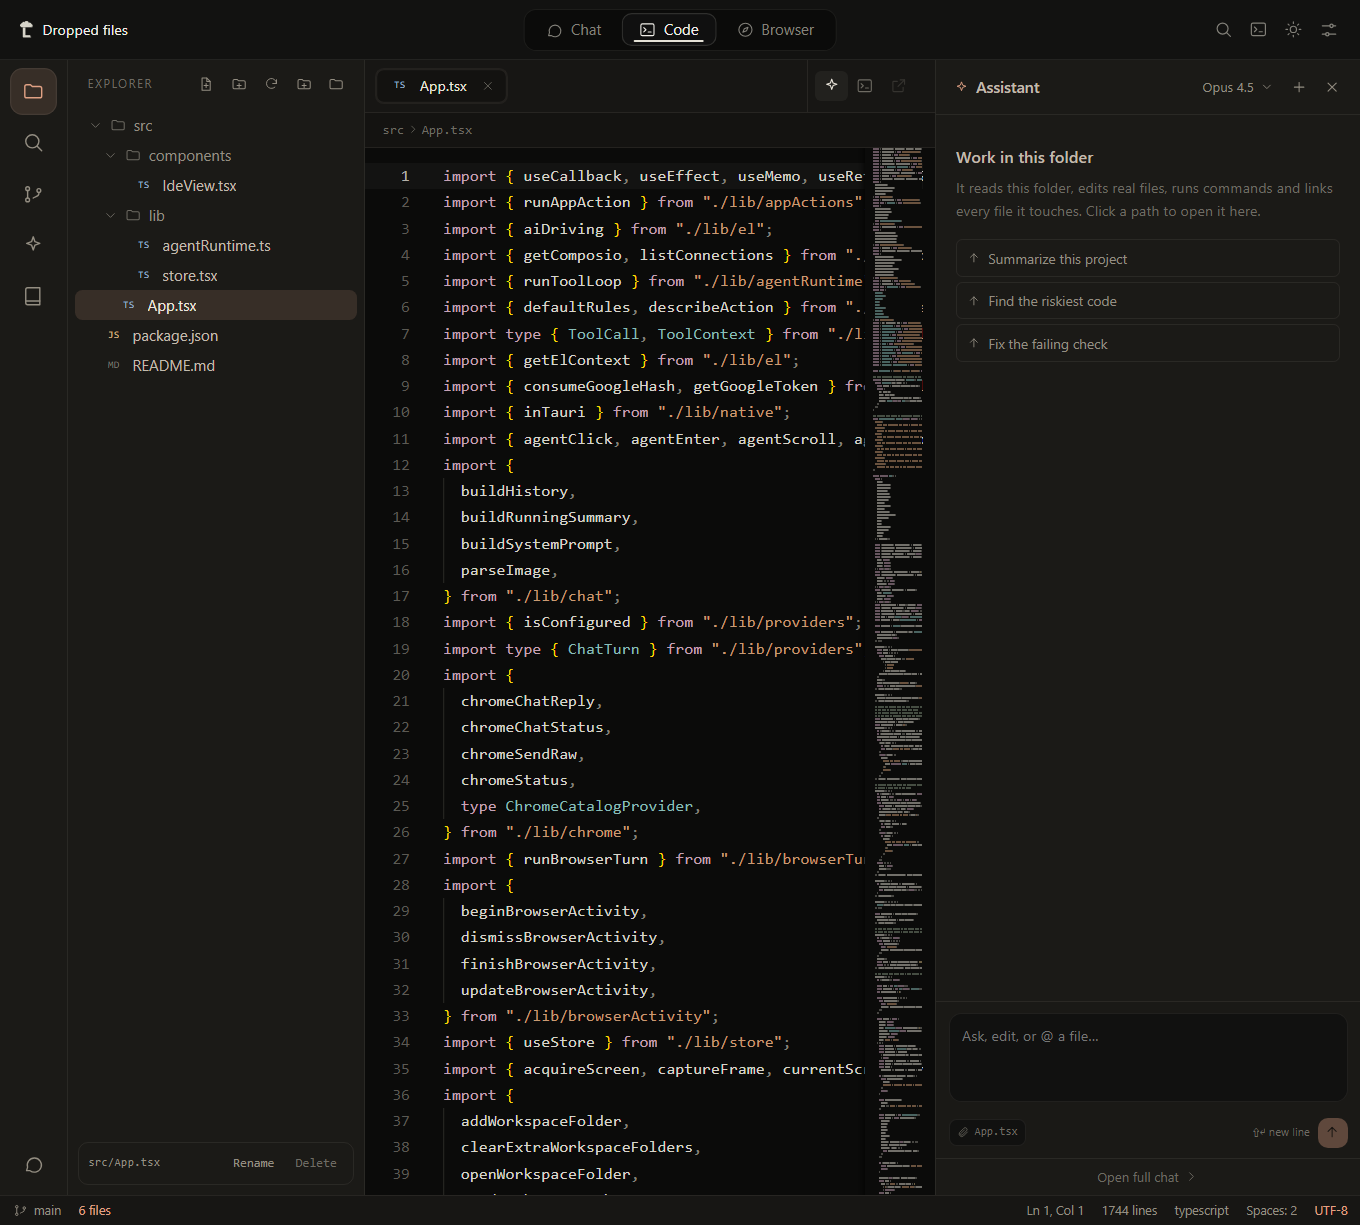
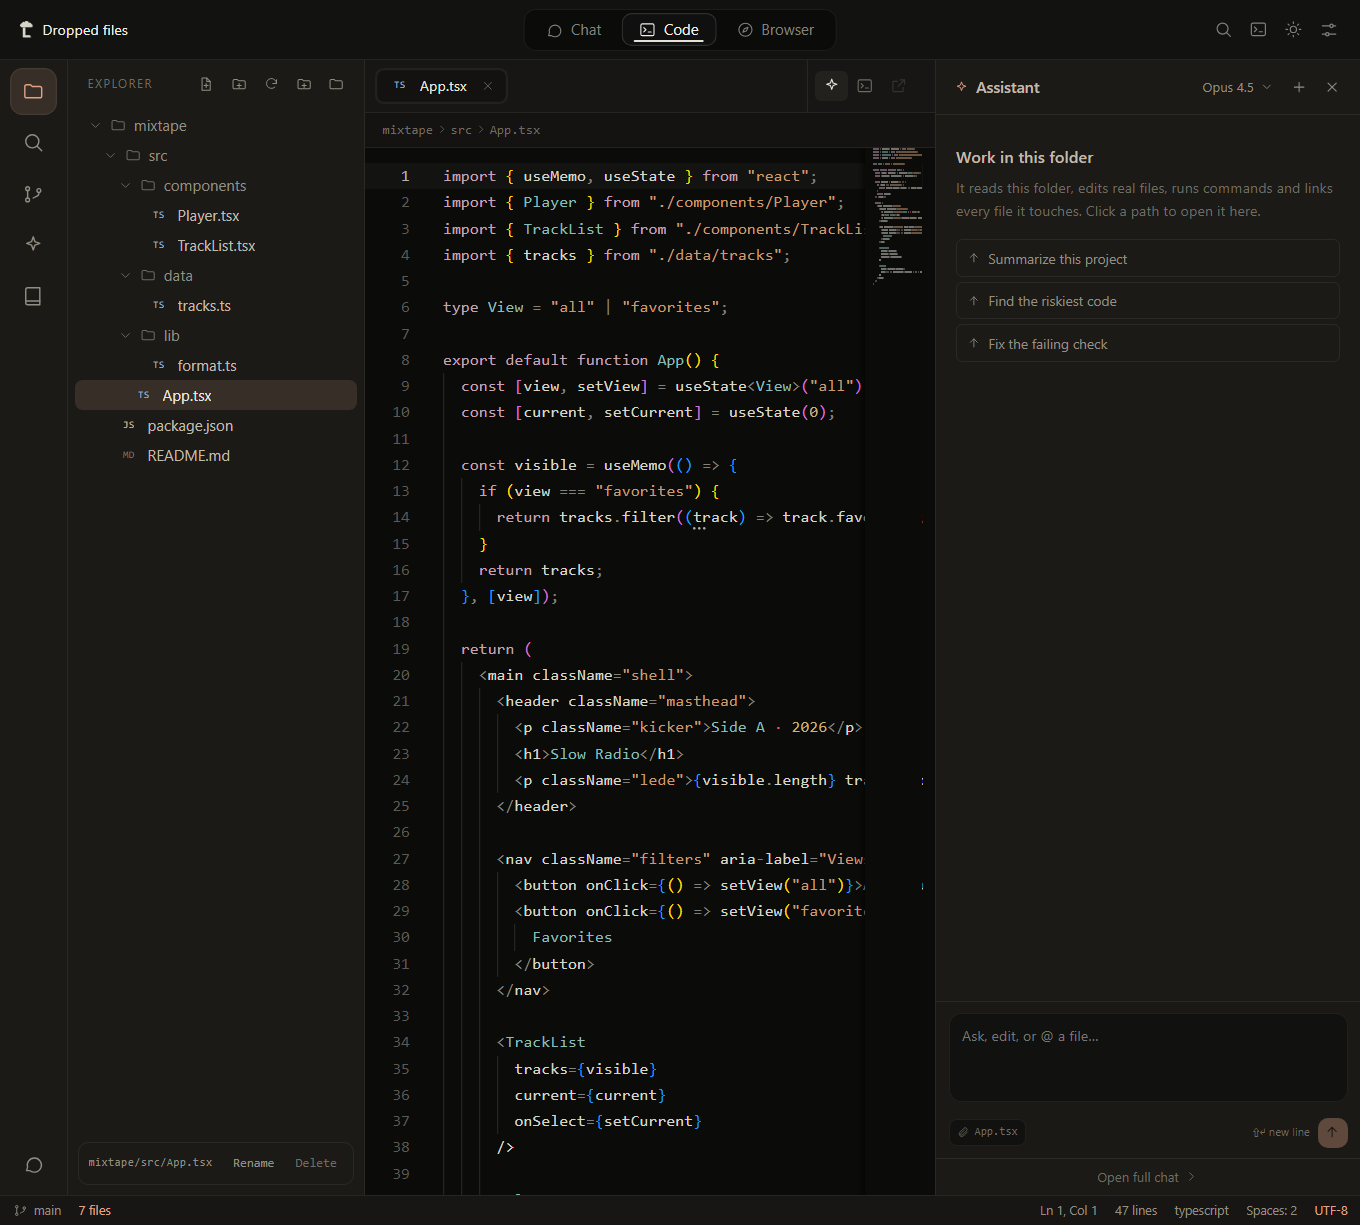
Give Monaco files real URIs and keep source out of public screenshots.
TSX and JSX models now carry their file extension, so the TypeScript worker parses JSX and generics correctly instead of flagging type aliases as unused. The README and website use a sample workspace for the Code capture so no repository source is published.

🤖 Generated with Codebuff

diff --git a/src/components/MonacoEditor.tsx b/src/components/MonacoEditor.tsx
@@ -160,9 +160,15 @@ export function MonacoEditor({
 
   useEffect(() => {
     if (!host.current) return undefined;
-    const editor = monaco.editor.create(host.current, {
+    // Give the model a real file URI so the TypeScript worker sees a `.tsx` or
+    // `.jsx` extension and parses JSX and generic type arguments correctly.
+    const model = monaco.editor.createModel(
       value,
-      language: monacoLanguage(path),
+      monacoLanguage(path),
+      monaco.Uri.file(`/${path}`),
+    );
+    const editor = monaco.editor.create(host.current, {
+      model,
       theme: theme === "dark" ? "lantas-dark" : "lantas-light",
       automaticLayout: true,
       fontFamily: prefs.fontFamily,
@@ -187,8 +193,7 @@ export function MonacoEditor({
       fixedOverflowWidgets: true,
     });
     editorRef.current = editor;
-    const first = editor.getModel();
-    if (first) models.current.set(path, first);
+    models.current.set(path, model);
 
     const change = editor.onDidChangeModelContent(() => {
       const model = editor.getModel();
@@ -221,7 +226,11 @@ export function MonacoEditor({
     if (!editor) return;
     let model = models.current.get(path);
     if (!model) {
-      model = monaco.editor.createModel(value, monacoLanguage(path));
+      model = monaco.editor.createModel(
+        value,
+        monacoLanguage(path),
+        monaco.Uri.file(`/${path}`),
+      );
       models.current.set(path, model);
     }
     if (editor.getModel() !== model) {

diff --git a/Website/site/index.html b/Website/site/index.html
@@ -325,7 +325,7 @@
     <div class="shots-grid" data-reveal>
       <figure class="shot shot-wide">
         <img src="assets/img/app-code.webp" alt="Lantas Code: the file explorer, a Monaco editor with App.tsx open, tabs and the assistant panel beside them" width="1100" height="991" loading="lazy">
-        <figcaption><b>Code</b><span>A real workspace: Monaco, the file tree, tabs and the assistant, inside the app's own title bar.</span></figcaption>
+        <figcaption><b>Code</b><span>A sample workspace in the real Code surface: Monaco, the file tree, tabs and the assistant, inside the app's own title bar.</span></figcaption>
       </figure>
       <figure class="shot">
         <img src="assets/img/app-home.webp" alt="Lantas Home: the composer, agent modes and new-thread suggestions" width="720" height="649" loading="lazy">

diff --git a/public-repo/index.html b/public-repo/index.html
@@ -325,7 +325,7 @@
     <div class="shots-grid" data-reveal>
       <figure class="shot shot-wide">
         <img src="assets/img/app-code.webp" alt="Lantas Code: the file explorer, a Monaco editor with App.tsx open, tabs and the assistant panel beside them" width="1100" height="991" loading="lazy">
-        <figcaption><b>Code</b><span>A real workspace: Monaco, the file tree, tabs and the assistant, inside the app's own title bar.</span></figcaption>
+        <figcaption><b>Code</b><span>A sample workspace in the real Code surface: Monaco, the file tree, tabs and the assistant, inside the app's own title bar.</span></figcaption>
       </figure>
       <figure class="shot">
         <img src="assets/img/app-home.webp" alt="Lantas Home: the composer, agent modes and new-thread suggestions" width="720" height="649" loading="lazy">

diff --git a/README.md b/README.md
@@ -18,6 +18,8 @@ A real workspace, not a code block in a chat. Open a folder and Lantas gets Mona
 
 ![Lantas Code](docs/screenshots/code.png)
 
+*The Code surface with a sample workspace open.*
+
 ### Browser
 
 A browser with its own engine, plus a Chrome bridge for the tabs you already have open. Lantas reads the DOM — roles, labels, values, what is visible and enabled — instead of guessing from a screenshot. It can click by label, type, scroll, navigate, wait for a result and re-read the page to verify what happened.
